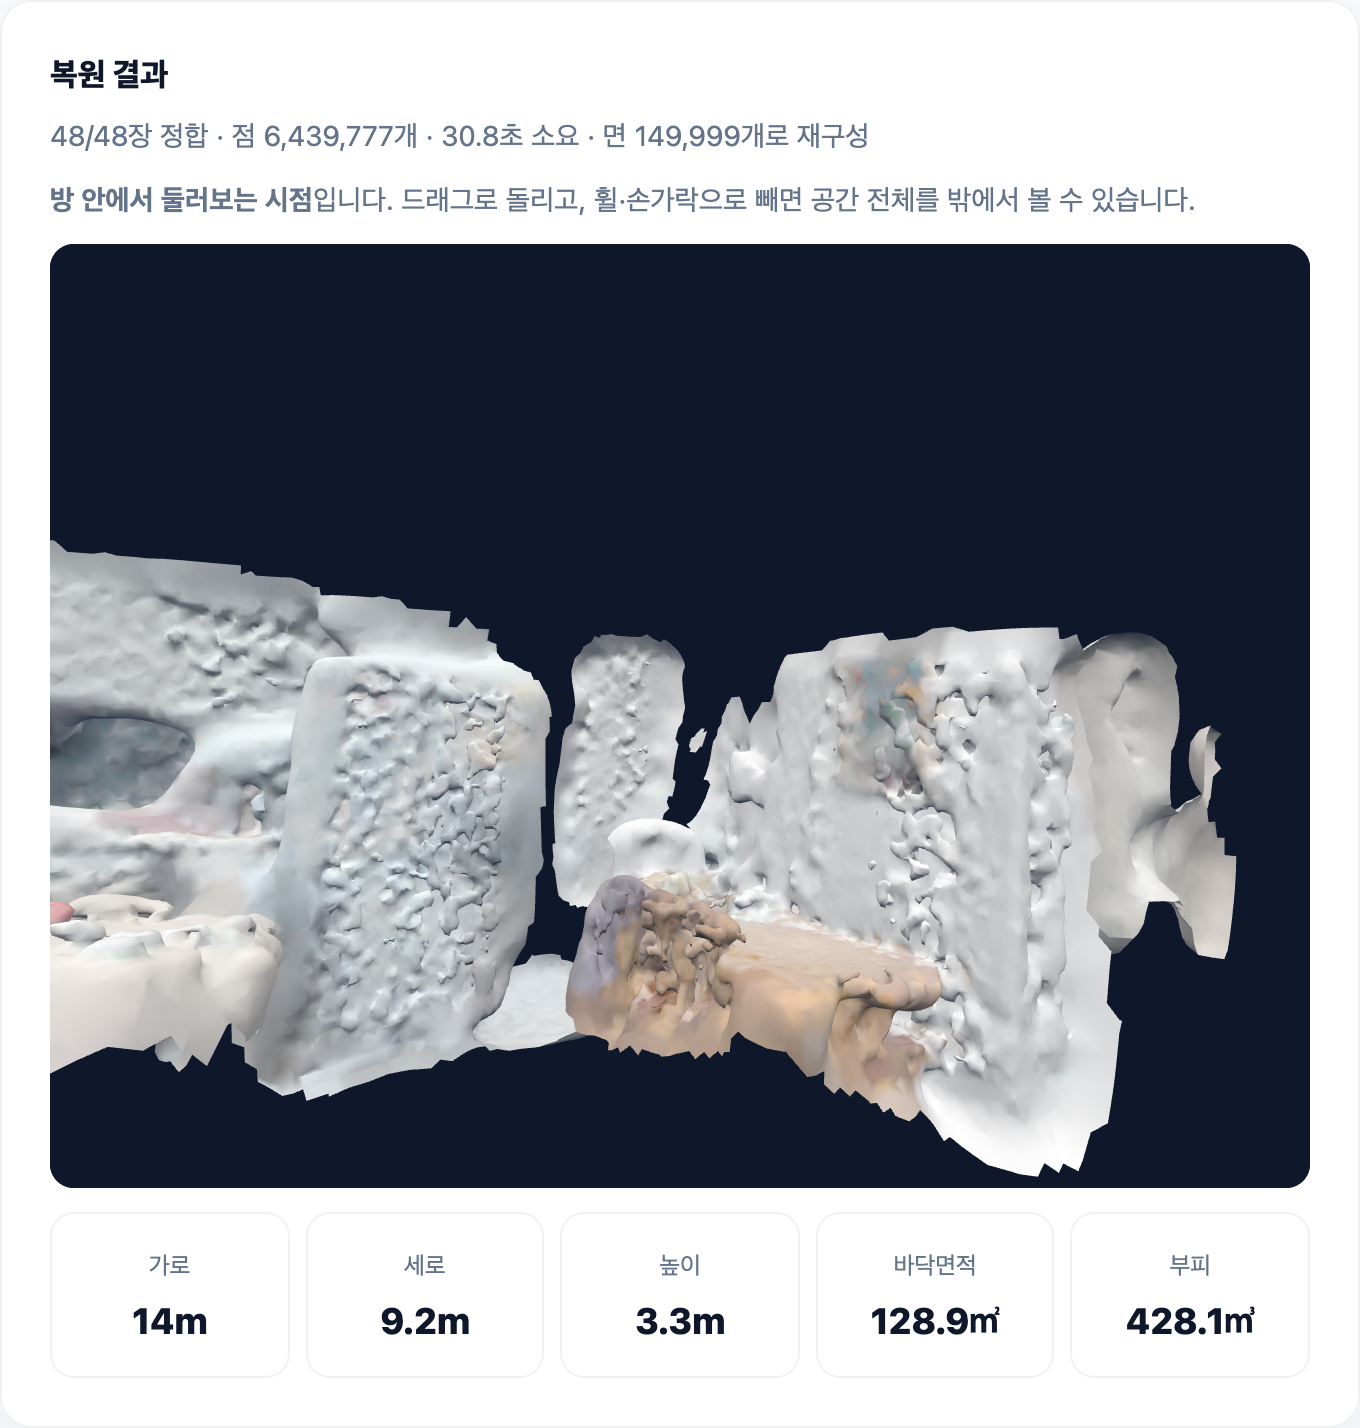
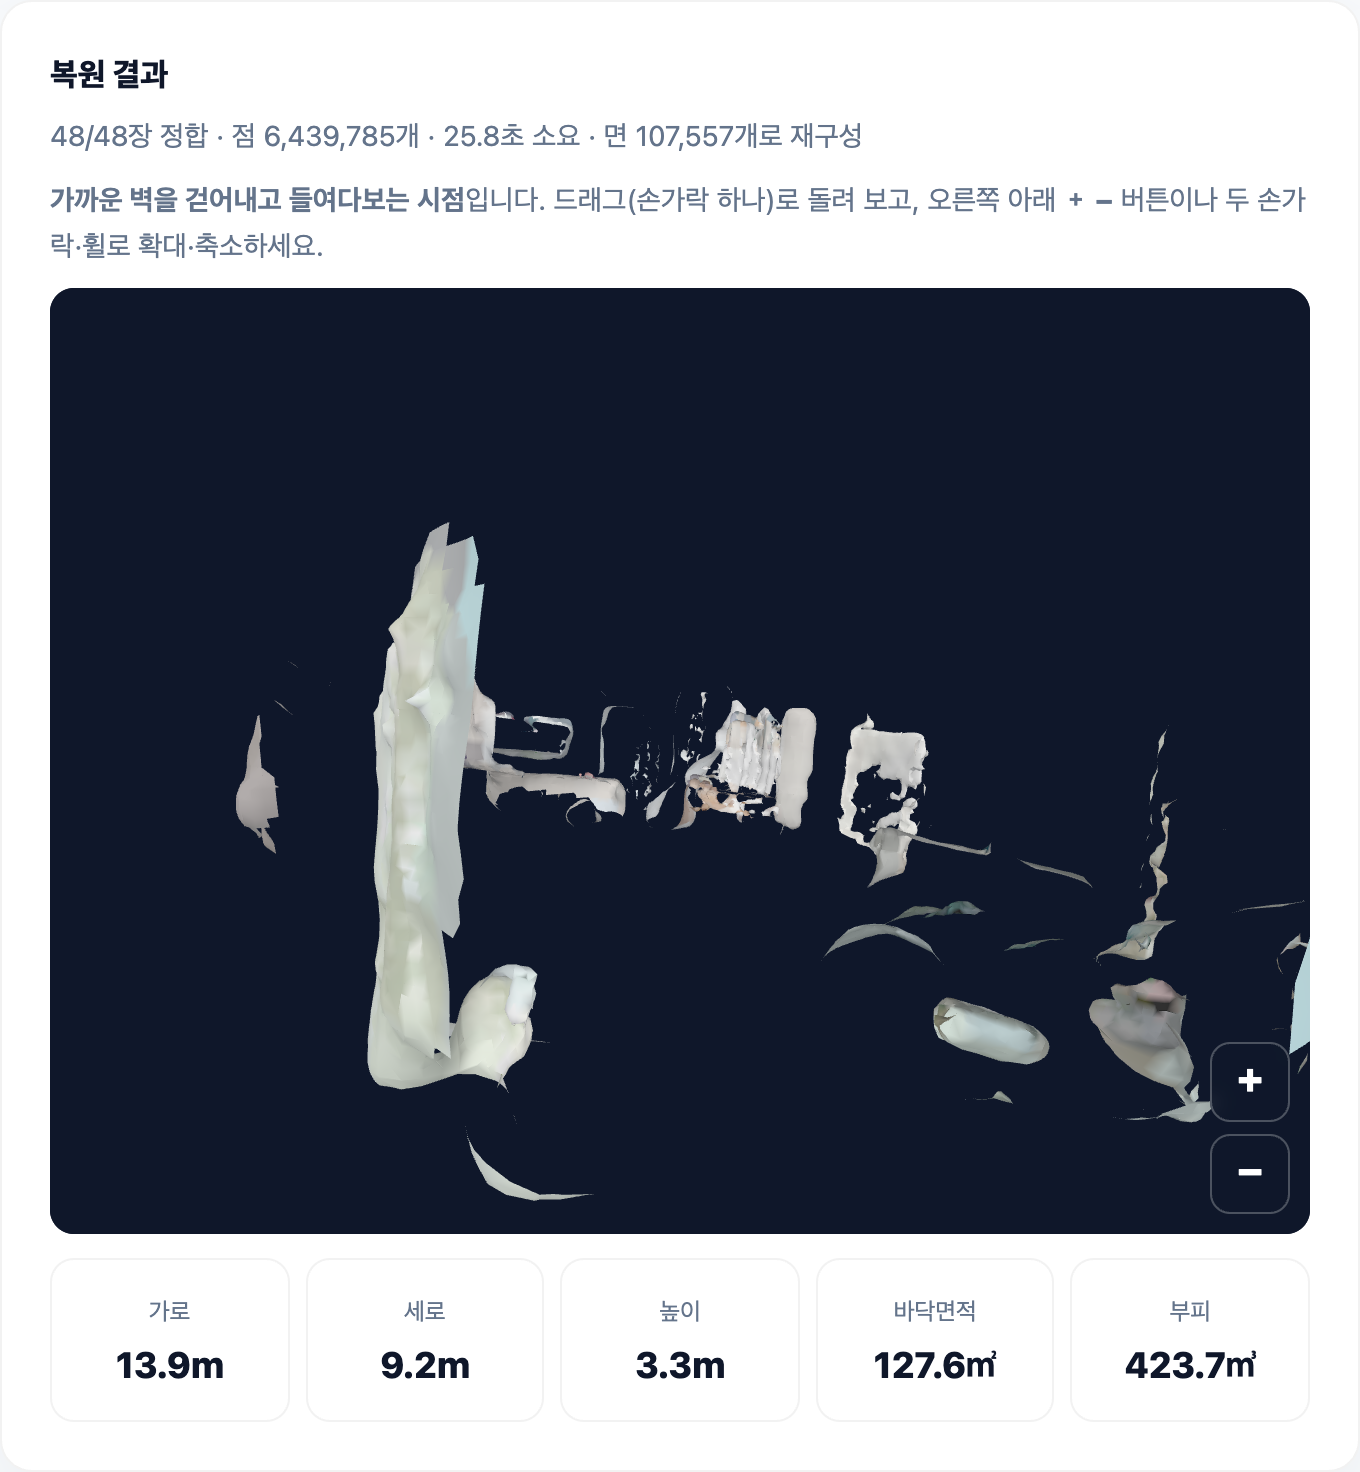
fix: 자동 회전이 애써 고른 첫 각도를 흘려버리던 것
한 바퀴 계속 돌렸다. 그래서 점이 가장 몰린 벽을 정면에 두고 시작해도 몇 초
뒤에는 그 벽을 옆에서 베어 문 각도가 된다 — 열어 본 사람이 마주치는 게
그 각도고, 캡처가 매번 달랐던 이유도 이것이다.

처음 각도 둘레 ±20° 안에서만 천천히 오간다. 입체감은 그대로 주면서 좋은
각도를 잃지 않는다. 사람이 드래그하면 그 각도가 새 중심이 된다.

diff --git a/apps/app/public/recon.html b/apps/app/public/recon.html
@@ -1393,6 +1393,8 @@ let CAPTURE_QUALITY = 0.58;
           ry -= (e.clientX - lx) * 0.006;
           rx = Math.max(-1.4, Math.min(1.4, rx + (e.clientY - ly) * 0.006));
           lx = e.clientX; ly = e.clientY; apply();
+          // 사람이 돌린 각도가 새 중심이 된다. 손을 떼면 거기서부터 오간다.
+          ryBase = ry; swing = 0;
         });
         el.addEventListener('wheel', e => {
           e.preventDefault();
@@ -1415,10 +1417,24 @@ let CAPTURE_QUALITY = 0.58;
         hold(zin, -0.12);
         hold(zout, 0.12);
 
+        // 첫 각도를 기억해 둔다 — 자동 움직임의 중심이 된다.
+        let ryBase = ry;
+        let swing = 0;
+
         cancelAnimationFrame(raf);
         (function loop() {
           raf = requestAnimationFrame(loop);
-          if (!dragging) { ry += 0.0015; apply(); }   // 조작 전에는 천천히 돈다
+          // 조작 전에는 천천히 움직이되 **한 바퀴 돌지는 않는다**.
+          //
+          // 계속 돌리면 애써 고른 첫 방향(점이 가장 몰린 벽)에서 벗어나, 열어 본
+          // 순간 벽을 옆에서 베어 문 각도에 걸린다 — 제출용 캡처가 매번 다른
+          // 이유였다. 처음 각도 둘레 ±20° 안에서만 천천히 오간다. 입체감은
+          // 그대로 주면서 "좋은 각도" 를 잃지 않는다.
+          if (!dragging) {
+            swing += 0.006;
+            ry = ryBase + Math.sin(swing) * 0.35;
+            apply();
+          }
           renderer.render(scene, camera);
         })();
       }
